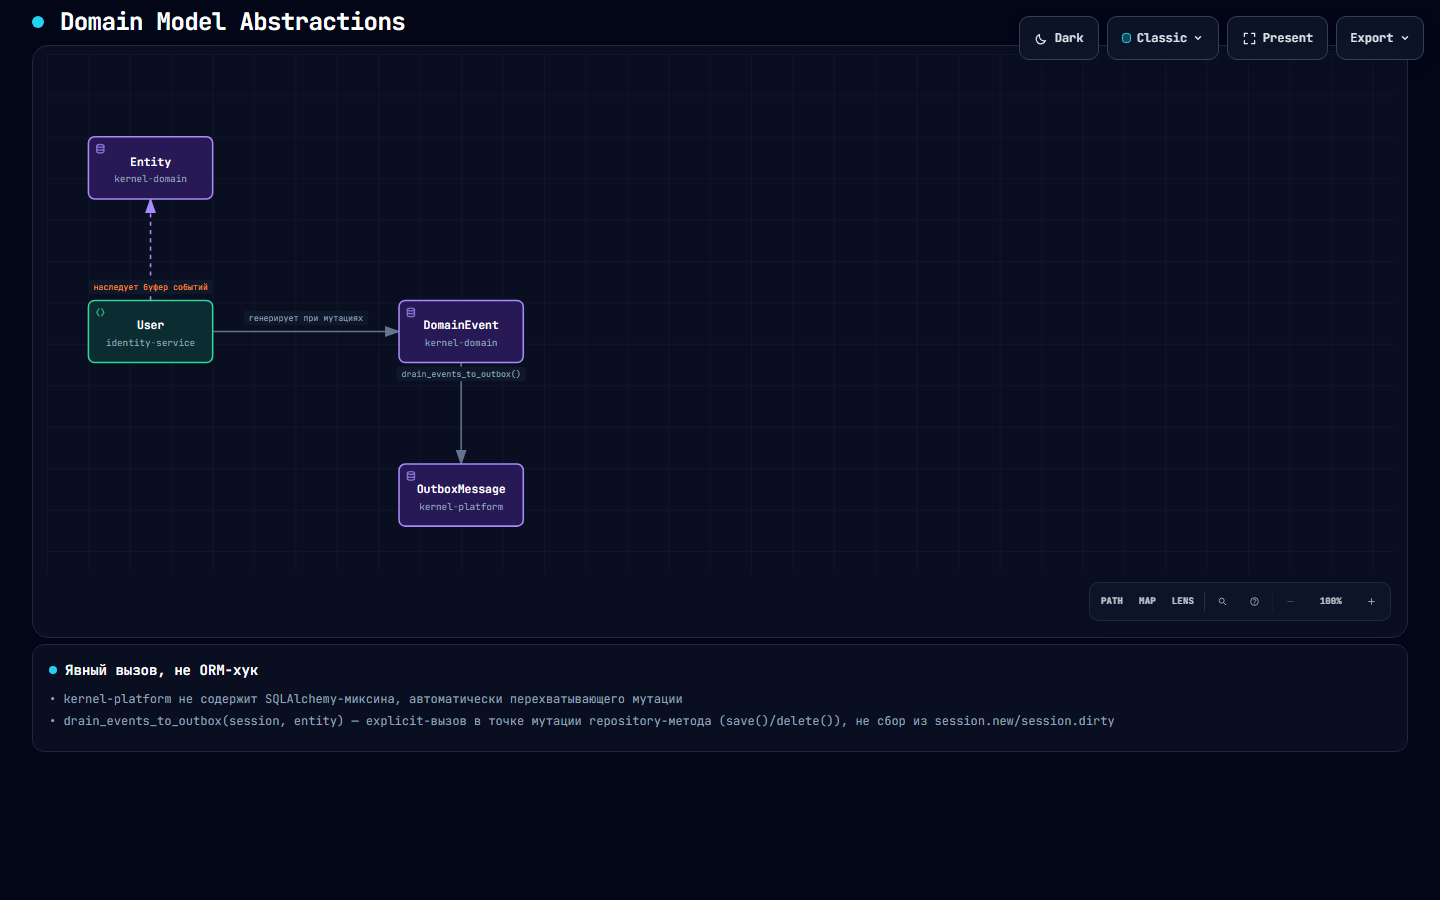
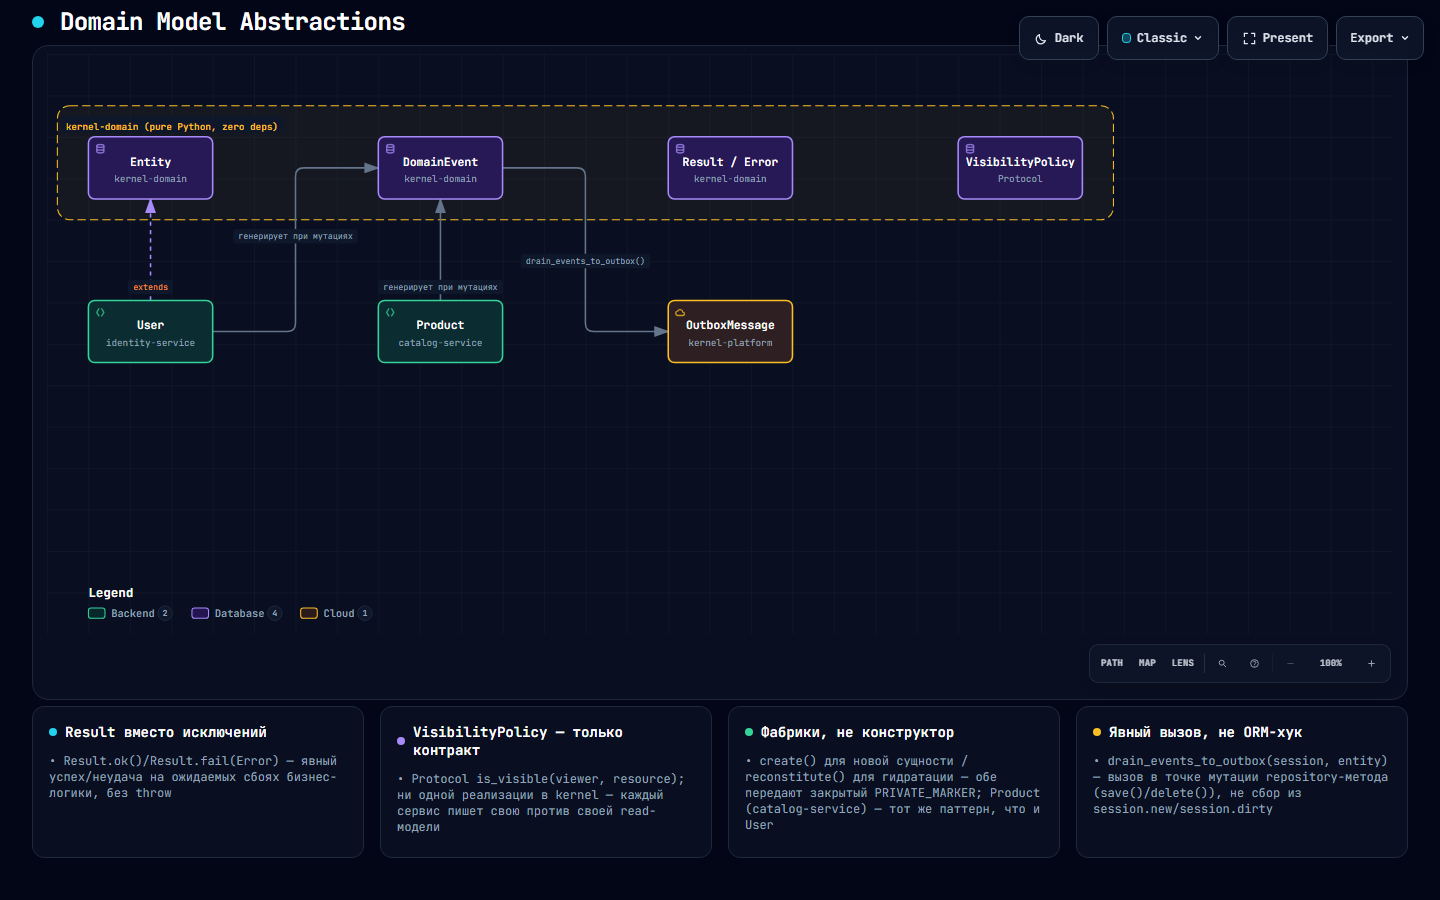
docs: flesh out the sparse domain-model diagram
The domain-model diagram only showed one example flow (User -> DomainEvent
-> OutboxMessage), leaving kernel-domain's other base abstractions
(Result/Error, VisibilityPolicy) and the fact that Entity is reused
outside identity-service unmentioned. Add both as verified kernel-domain
exports (grouped in one boundary) plus Product (catalog-service) as a
second concrete Entity example generating its own domain events, with
cards summarizing each abstraction's actual contract.

diff --git a/docs/architecture/diagrams/domain-model.html b/docs/architecture/diagrams/domain-model.html
@@ -5004,7 +5004,7 @@
     <!-- Main Diagram -->
     <div class="diagram-container" data-detail-level="read"
          data-preset-badge-editorial-plate="ARCHIFY / PLATE 04">
-      <svg viewBox="0 0 1300 500" role="img" lang="en" aria-labelledby="archify-diagram-title archify-diagram-description" data-preset="classic" data-quality-profile="showcase">
+      <svg viewBox="0 0 1300 560" role="img" lang="en" aria-labelledby="archify-diagram-title archify-diagram-description" data-preset="classic" data-quality-profile="showcase">
         <title id="archify-diagram-title">Domain Model Abstractions</title>
         <desc id="archify-diagram-description">An architecture diagram generated by Archify.</desc>
         <!-- Definitions -->
@@ -5030,16 +5030,17 @@
         <rect width="100%" height="100%" fill="url(#grid)" />
 
         <!-- Boundaries (behind everything) -->
-
+        <rect data-graph-role="structural-frame" data-composition-frame-kind="region" data-composition-frame-id="0" data-composition-frame-label="kernel-domain (pure Python, zero deps)" x="10" y="50" width="1020" height="110" rx="12" class="c-region" stroke-width="1"/>
 
         <!-- Connection paths (before components for correct z-order) -->
-        <path data-edge-from="user" data-edge-to="entity" data-edge-label="наследует буфер событий" data-edge-key="0" data-edge-id="user-entity" data-composition-points="100,238;100,140" d="M 100 238 L 100 140" class="a-dashed" stroke-width="1.5" marker-end="url(#arrowhead-dashed)"/>
-        <path data-edge-from="user" data-edge-to="domain_event" data-edge-label="генерирует при мутациях" data-edge-key="1" data-edge-id="user-event" data-composition-points="160,268;340,268" d="M 160 268 L 340 268" class="a-default" stroke-width="1.5" marker-end="url(#arrowhead)"/>
-        <path data-edge-from="domain_event" data-edge-to="outbox_message" data-edge-label="drain_events_to_outbox()" data-edge-key="2" data-edge-id="event-outbox" data-composition-points="400,298;400,396" d="M 400 298 L 400 396" class="a-default" stroke-width="1.5" marker-end="url(#arrowhead)"/>
+        <path data-edge-from="user" data-edge-to="entity" data-edge-label="extends" data-edge-key="0" data-edge-id="user-entity" data-composition-points="100,238;100,140" d="M 100 238 L 100 140" class="a-dashed" stroke-width="1.5" marker-end="url(#arrowhead-dashed)"/>
+        <path data-edge-from="user" data-edge-to="domain_event" data-edge-label="генерирует при мутациях" data-edge-key="1" data-edge-id="user-event" data-composition-points="160,268;240,268;240,110;320,110" d="M 160 268 L 232 268 Q 240 268 240 260 L 240 118 Q 240 110 248 110 L 320 110" class="a-default" stroke-width="1.5" marker-end="url(#arrowhead)"/>
+        <path data-edge-from="product" data-edge-to="domain_event" data-edge-label="генерирует при мутациях" data-edge-key="2" data-edge-id="product-event" data-composition-points="380,238;380,140" d="M 380 238 L 380 140" class="a-default" stroke-width="1.5" marker-end="url(#arrowhead)"/>
+        <path data-edge-from="domain_event" data-edge-to="outbox_message" data-edge-label="drain_events_to_outbox()" data-edge-key="3" data-edge-id="event-outbox" data-composition-points="440,110;520,110;520,268;600,268" d="M 440 110 L 512 110 Q 520 110 520 118 L 520 260 Q 520 268 528 268 L 600 268" class="a-default" stroke-width="1.5" marker-end="url(#arrowhead)"/>
 
         <!-- Components -->
-        <g id="node-entity" data-node-id="entity" data-node-label="Entity" tabindex="0" role="button" aria-label="Focus Entity, kernel-domain, Architecture component" aria-pressed="false" data-node-kind="database" data-node-sublabel="kernel-domain" data-node-context="Architecture component">
-          <title>Entity · kernel-domain · Architecture component</title>
+        <g id="node-entity" data-node-id="entity" data-node-label="Entity" tabindex="0" role="button" aria-label="Focus Entity, kernel-domain, kernel-domain (pure Python, zero deps)" aria-pressed="false" data-node-kind="database" data-node-sublabel="kernel-domain" data-node-context="kernel-domain (pure Python, zero deps)">
+          <title>Entity · kernel-domain · kernel-domain (pure Python, zero deps)</title>
           <rect x="40" y="80" width="120" height="60" rx="6" class="c-mask"/>
           <rect x="40" y="80" width="120" height="60" rx="6" class="c-database" stroke-width="1.5"/>
           <g aria-hidden="true" data-semantic-sigil="database" class="semantic-sigil s-database" transform="translate(46 86) scale(0.6875)">
@@ -5048,6 +5049,42 @@
           </g>
           <text data-node-label="" data-detail-anchor="" x="100" y="108" class="t-primary" font-size="11" font-weight="600" text-anchor="middle">Entity</text>
         <text data-detail="context" x="100" y="124" class="t-muted" font-size="9" text-anchor="middle">kernel-domain</text>
+        </g>
+
+        <g id="node-domain_event" data-node-id="domain_event" data-node-label="DomainEvent" tabindex="0" role="button" aria-label="Focus DomainEvent, kernel-domain, kernel-domain (pure Python, zero deps)" aria-pressed="false" data-node-kind="database" data-node-sublabel="kernel-domain" data-node-context="kernel-domain (pure Python, zero deps)">
+          <title>DomainEvent · kernel-domain · kernel-domain (pure Python, zero deps)</title>
+          <rect x="320" y="80" width="120" height="60" rx="6" class="c-mask"/>
+          <rect x="320" y="80" width="120" height="60" rx="6" class="c-database" stroke-width="1.5"/>
+          <g aria-hidden="true" data-semantic-sigil="database" class="semantic-sigil s-database" transform="translate(326 86) scale(0.6875)">
+            <ellipse cx="8" cy="4" rx="5" ry="2"/>
+            <path d="M3 4v8c0 1.1 2.2 2 5 2s5-.9 5-2V4M3 8c0 1.1 2.2 2 5 2s5-.9 5-2"/>
+          </g>
+          <text data-node-label="" data-detail-anchor="" x="380" y="108" class="t-primary" font-size="11" font-weight="600" text-anchor="middle">DomainEvent</text>
+        <text data-detail="context" x="380" y="124" class="t-muted" font-size="9" text-anchor="middle">kernel-domain</text>
+        </g>
+
+        <g id="node-result" data-node-id="result" data-node-label="Result / Error" tabindex="0" role="button" aria-label="Focus Result / Error, kernel-domain, kernel-domain (pure Python, zero deps)" aria-pressed="false" data-node-kind="database" data-node-sublabel="kernel-domain" data-node-context="kernel-domain (pure Python, zero deps)">
+          <title>Result / Error · kernel-domain · kernel-domain (pure Python, zero deps)</title>
+          <rect x="600" y="80" width="120" height="60" rx="6" class="c-mask"/>
+          <rect x="600" y="80" width="120" height="60" rx="6" class="c-database" stroke-width="1.5"/>
+          <g aria-hidden="true" data-semantic-sigil="database" class="semantic-sigil s-database" transform="translate(606 86) scale(0.6875)">
+            <ellipse cx="8" cy="4" rx="5" ry="2"/>
+            <path d="M3 4v8c0 1.1 2.2 2 5 2s5-.9 5-2V4M3 8c0 1.1 2.2 2 5 2s5-.9 5-2"/>
+          </g>
+          <text data-node-label="" data-detail-anchor="" x="660" y="108" class="t-primary" font-size="11" font-weight="600" text-anchor="middle">Result / Error</text>
+        <text data-detail="context" x="660" y="124" class="t-muted" font-size="9" text-anchor="middle">kernel-domain</text>
+        </g>
+
+        <g id="node-visibility_policy" data-node-id="visibility_policy" data-node-label="VisibilityPolicy" tabindex="0" role="button" aria-label="Focus VisibilityPolicy, Protocol, kernel-domain (pure Python, zero deps)" aria-pressed="false" data-node-kind="database" data-node-sublabel="Protocol" data-node-context="kernel-domain (pure Python, zero deps)">
+          <title>VisibilityPolicy · Protocol · kernel-domain (pure Python, zero deps)</title>
+          <rect x="880" y="80" width="120" height="60" rx="6" class="c-mask"/>
+          <rect x="880" y="80" width="120" height="60" rx="6" class="c-database" stroke-width="1.5"/>
+          <g aria-hidden="true" data-semantic-sigil="database" class="semantic-sigil s-database" transform="translate(886 86) scale(0.6875)">
+            <ellipse cx="8" cy="4" rx="5" ry="2"/>
+            <path d="M3 4v8c0 1.1 2.2 2 5 2s5-.9 5-2V4M3 8c0 1.1 2.2 2 5 2s5-.9 5-2"/>
+          </g>
+          <text data-node-label="" data-detail-anchor="" x="940" y="108" class="t-primary" font-size="11" font-weight="600" text-anchor="middle">VisibilityPolicy</text>
+        <text data-detail="context" x="940" y="124" class="t-muted" font-size="9" text-anchor="middle">Protocol</text>
         </g>
 
         <g id="node-user" data-node-id="user" data-node-label="User" tabindex="0" role="button" aria-label="Focus User, identity-service, Architecture component" aria-pressed="false" data-node-kind="backend" data-node-sublabel="identity-service" data-node-context="Architecture component">
@@ -5061,49 +5098,68 @@
         <text data-detail="context" x="100" y="282" class="t-muted" font-size="9" text-anchor="middle">identity-service</text>
         </g>
 
-        <g id="node-domain_event" data-node-id="domain_event" data-node-label="DomainEvent" tabindex="0" role="button" aria-label="Focus DomainEvent, kernel-domain, Architecture component" aria-pressed="false" data-node-kind="database" data-node-sublabel="kernel-domain" data-node-context="Architecture component">
-          <title>DomainEvent · kernel-domain · Architecture component</title>
-          <rect x="340" y="238" width="120" height="60" rx="6" class="c-mask"/>
-          <rect x="340" y="238" width="120" height="60" rx="6" class="c-database" stroke-width="1.5"/>
-          <g aria-hidden="true" data-semantic-sigil="database" class="semantic-sigil s-database" transform="translate(346 244) scale(0.6875)">
-            <ellipse cx="8" cy="4" rx="5" ry="2"/>
-            <path d="M3 4v8c0 1.1 2.2 2 5 2s5-.9 5-2V4M3 8c0 1.1 2.2 2 5 2s5-.9 5-2"/>
+        <g id="node-product" data-node-id="product" data-node-label="Product" tabindex="0" role="button" aria-label="Focus Product, catalog-service, Architecture component" aria-pressed="false" data-node-kind="backend" data-node-sublabel="catalog-service" data-node-context="Architecture component">
+          <title>Product · catalog-service · Architecture component</title>
+          <rect x="320" y="238" width="120" height="60" rx="6" class="c-mask"/>
+          <rect x="320" y="238" width="120" height="60" rx="6" class="c-backend" stroke-width="1.5"/>
+          <g aria-hidden="true" data-semantic-sigil="backend" class="semantic-sigil s-backend" transform="translate(326 244) scale(0.6875)">
+            <path d="M6 3 3 8l3 5M10 3l3 5-3 5"/>
           </g>
-          <text data-node-label="" data-detail-anchor="" x="400" y="266" class="t-primary" font-size="11" font-weight="600" text-anchor="middle">DomainEvent</text>
-        <text data-detail="context" x="400" y="282" class="t-muted" font-size="9" text-anchor="middle">kernel-domain</text>
+          <text data-node-label="" data-detail-anchor="" x="380" y="266" class="t-primary" font-size="11" font-weight="600" text-anchor="middle">Product</text>
+        <text data-detail="context" x="380" y="282" class="t-muted" font-size="9" text-anchor="middle">catalog-service</text>
         </g>
 
-        <g id="node-outbox_message" data-node-id="outbox_message" data-node-label="OutboxMessage" tabindex="0" role="button" aria-label="Focus OutboxMessage, kernel-platform, Architecture component" aria-pressed="false" data-node-kind="database" data-node-sublabel="kernel-platform" data-node-context="Architecture component">
+        <g id="node-outbox_message" data-node-id="outbox_message" data-node-label="OutboxMessage" tabindex="0" role="button" aria-label="Focus OutboxMessage, kernel-platform, Architecture component" aria-pressed="false" data-node-kind="cloud" data-node-sublabel="kernel-platform" data-node-context="Architecture component">
           <title>OutboxMessage · kernel-platform · Architecture component</title>
-          <rect x="340" y="396" width="120" height="60" rx="6" class="c-mask"/>
-          <rect x="340" y="396" width="120" height="60" rx="6" class="c-database" stroke-width="1.5"/>
-          <g aria-hidden="true" data-semantic-sigil="database" class="semantic-sigil s-database" transform="translate(346 402) scale(0.6875)">
-            <ellipse cx="8" cy="4" rx="5" ry="2"/>
-            <path d="M3 4v8c0 1.1 2.2 2 5 2s5-.9 5-2V4M3 8c0 1.1 2.2 2 5 2s5-.9 5-2"/>
+          <rect x="600" y="238" width="120" height="60" rx="6" class="c-mask"/>
+          <rect x="600" y="238" width="120" height="60" rx="6" class="c-cloud" stroke-width="1.5"/>
+          <g aria-hidden="true" data-semantic-sigil="cloud" class="semantic-sigil s-cloud" transform="translate(606 244) scale(0.6875)">
+            <path d="M4.3 12.5h7.3a2.4 2.4 0 0 0 .2-4.8 4 4 0 0 0-7.5-1.3A3.1 3.1 0 0 0 4.3 12.5Z"/>
           </g>
-          <text data-node-label="" data-detail-anchor="" x="400" y="424" class="t-primary" font-size="11" font-weight="600" text-anchor="middle">OutboxMessage</text>
-        <text data-detail="context" x="400" y="440" class="t-muted" font-size="9" text-anchor="middle">kernel-platform</text>
+          <text data-node-label="" data-detail-anchor="" x="660" y="266" class="t-primary" font-size="11" font-weight="600" text-anchor="middle">OutboxMessage</text>
+        <text data-detail="context" x="660" y="282" class="t-muted" font-size="9" text-anchor="middle">kernel-platform</text>
         </g>
 
         <!-- Connection labels -->
-        <g data-detail="context" data-edge-from="user" data-edge-to="entity" data-edge-label="наследует буфер событий" data-edge-key="0" data-edge-id="user-entity">
-          <rect x="39.800000000000004" y="218" width="120.39999999999999" height="14" rx="3" class="c-mask"/>
-          <text x="100" y="228" class="t-messagebus" font-size="8" text-anchor="middle">наследует буфер событий</text>
+        <g data-detail="context" data-edge-from="user" data-edge-to="entity" data-edge-label="extends" data-edge-key="0" data-edge-id="user-entity">
+          <rect x="78.2" y="218" width="43.6" height="14" rx="3" class="c-mask"/>
+          <text x="100" y="228" class="t-messagebus" font-size="8" text-anchor="middle">extends</text>
         </g>
         <g data-detail="context" data-edge-from="user" data-edge-to="domain_event" data-edge-label="генерирует при мутациях" data-edge-key="1" data-edge-id="user-event">
-          <rect x="189.8" y="248" width="120.39999999999999" height="14" rx="3" class="c-mask"/>
-          <text x="250" y="258" class="t-muted" font-size="8" text-anchor="middle">генерирует при мутациях</text>
+          <rect x="179.8" y="169" width="120.39999999999999" height="14" rx="3" class="c-mask"/>
+          <text x="240" y="179" class="t-muted" font-size="8" text-anchor="middle">генерирует при мутациях</text>
         </g>
-        <g data-detail="context" data-edge-from="domain_event" data-edge-to="outbox_message" data-edge-label="drain_events_to_outbox()" data-edge-key="2" data-edge-id="event-outbox">
-          <rect x="337.4" y="302" width="125.19999999999999" height="14" rx="3" class="c-mask"/>
-          <text x="400" y="312" class="t-muted" font-size="8" text-anchor="middle">drain_events_to_outbox()</text>
+        <g data-detail="context" data-edge-from="product" data-edge-to="domain_event" data-edge-label="генерирует при мутациях" data-edge-key="2" data-edge-id="product-event">
+          <rect x="319.8" y="218" width="120.39999999999999" height="14" rx="3" class="c-mask"/>
+          <text x="380" y="228" class="t-muted" font-size="8" text-anchor="middle">генерирует при мутациях</text>
+        </g>
+        <g data-detail="context" data-edge-from="domain_event" data-edge-to="outbox_message" data-edge-label="drain_events_to_outbox()" data-edge-key="3" data-edge-id="event-outbox">
+          <rect x="457.4" y="193" width="125.19999999999999" height="14" rx="3" class="c-mask"/>
+          <text x="520" y="203" class="t-muted" font-size="8" text-anchor="middle">drain_events_to_outbox()</text>
         </g>
 
         <!-- Boundary labels (foreground masks keep routes out of titles) -->
-
+        <g data-graph-role="structural-frame-label" data-composition-frame-id="0" data-composition-frame-kind="region" data-composition-frame-label="kernel-domain (pure Python, zero deps)">
+          <rect data-graph-role="structural-frame-label-mask" x="14" y="60" width="215.2" height="16" rx="3" class="c-mask"/>
+          <text data-boundary-label="" x="18" y="73" class="t-cloud" font-size="9" font-weight="600">kernel-domain (pure Python, zero deps)</text>
+        </g>
 
         <!-- Legend -->
-
+        <g data-legend="" data-legend-bridge="">
+          <text x="40" y="524" class="t-primary" font-size="12" font-weight="650">Legend</text>
+          <g data-legend-semantic-kind="backend" data-legend-kind="backend" data-legend-label="Backend" data-legend-x="40" data-legend-baseline="544" data-legend-width="78">
+            <rect x="40" y="535" width="16" height="10" rx="2.5" class="c-backend" stroke-width="1"/>
+            <text x="62" y="544" class="t-muted" font-size="10" font-weight="500">Backend</text>
+          </g>
+          <g data-legend-semantic-kind="database" data-legend-kind="database" data-legend-label="Database" data-legend-x="140" data-legend-baseline="544" data-legend-width="83">
+            <rect x="140" y="535" width="16" height="10" rx="2.5" class="c-database" stroke-width="1"/>
+            <text x="162" y="544" class="t-muted" font-size="10" font-weight="500">Database</text>
+          </g>
+          <g data-legend-semantic-kind="cloud" data-legend-kind="cloud" data-legend-label="Cloud" data-legend-x="245" data-legend-baseline="544" data-legend-width="68">
+            <rect x="245" y="535" width="16" height="10" rx="2.5" class="c-cloud" stroke-width="1"/>
+            <text x="267" y="544" class="t-muted" font-size="10" font-weight="500">Cloud</text>
+          </g>
+        </g>
       </svg>
       <p class="intent-trace-status no-print" id="intent-trace-status" role="status" aria-live="polite" aria-atomic="true"></p>
       <div class="share-chapter-cue no-print" id="share-chapter-cue" hidden role="status" aria-live="polite">
@@ -5293,11 +5349,40 @@
       <div class="card">
         <div class="card-header">
           <div class="card-dot cyan"></div>
+          <h3>Result вместо исключений</h3>
+        </div>
+        <ul>
+          <li>&bull; Result.ok()/Result.fail(Error) — явный успех/неудача на ожидаемых сбоях бизнес-логики, без throw</li>
+        </ul>
+      </div>
+
+      <div class="card">
+        <div class="card-header">
+          <div class="card-dot violet"></div>
+          <h3>VisibilityPolicy — только контракт</h3>
+        </div>
+        <ul>
+          <li>&bull; Protocol is_visible(viewer, resource); ни одной реализации в kernel — каждый сервис пишет свою против своей read-модели</li>
+        </ul>
+      </div>
+
+      <div class="card">
+        <div class="card-header">
+          <div class="card-dot emerald"></div>
+          <h3>Фабрики, не конструктор</h3>
+        </div>
+        <ul>
+          <li>&bull; create() для новой сущности / reconstitute() для гидратации — обе передают закрытый PRIVATE_MARKER; Product (catalog-service) — тот же паттерн, что и User</li>
+        </ul>
+      </div>
+
+      <div class="card">
+        <div class="card-header">
+          <div class="card-dot amber"></div>
           <h3>Явный вызов, не ORM-хук</h3>
         </div>
         <ul>
-          <li>&bull; kernel-platform не содержит SQLAlchemy-миксина, автоматически перехватывающего мутации</li>
-          <li>&bull; drain_events_to_outbox(session, entity) — explicit-вызов в точке мутации repository-метода (save()/delete()), не сбор из session.new/session.dirty</li>
+          <li>&bull; drain_events_to_outbox(session, entity) — вызов в точке мутации repository-метода (save()/delete()), не сбор из session.new/session.dirty</li>
         </ul>
       </div>
     </div>

diff --git a/docs/architecture/backend_architecture.md b/docs/architecture/backend_architecture.md
@@ -97,7 +97,7 @@ backend/services/<service>/
 
 ### Доменная модель: базовые абстракции и события
 
-![Базовые доменные абстракции: User наследует буфер событий Entity, генерирует DomainEvent, drain_events_to_outbox() переносит их в OutboxMessage](diagrams/domain-model.png)
+![Базовые абстракции kernel-domain (Entity, DomainEvent, Result/Error, VisibilityPolicy): User и Product наследуют буфер событий Entity и генерируют DomainEvent, drain_events_to_outbox() переносит их в OutboxMessage](diagrams/domain-model.png)
 
 [Открыть интерактивную схему](diagrams/domain-model.html) (pan/zoom, переключение темы, трассировка связей — открывать локально в браузере, GitHub не рендерит HTML из репозитория).
 
